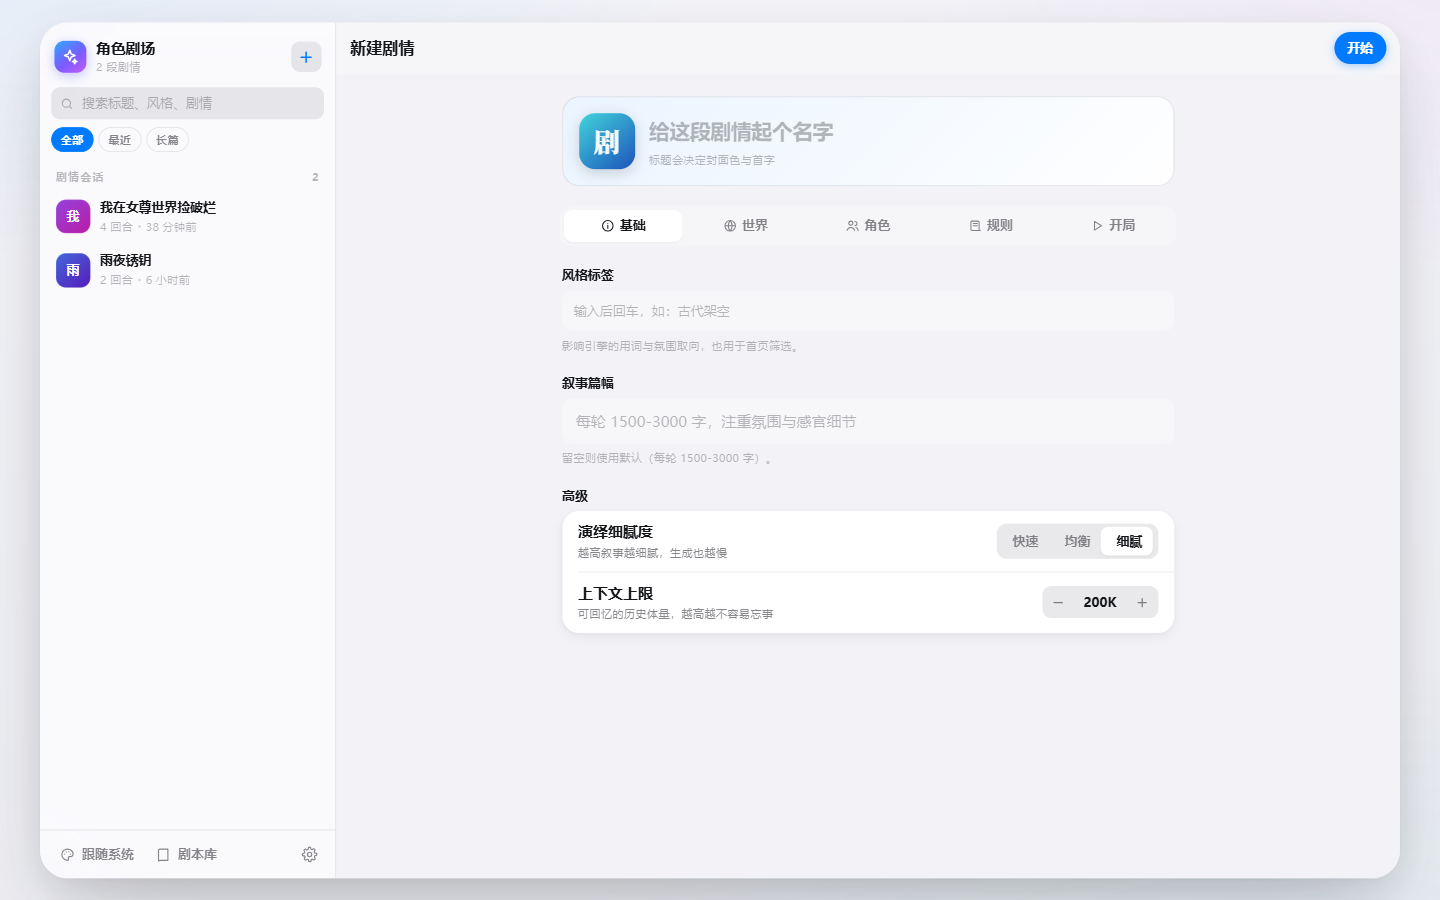
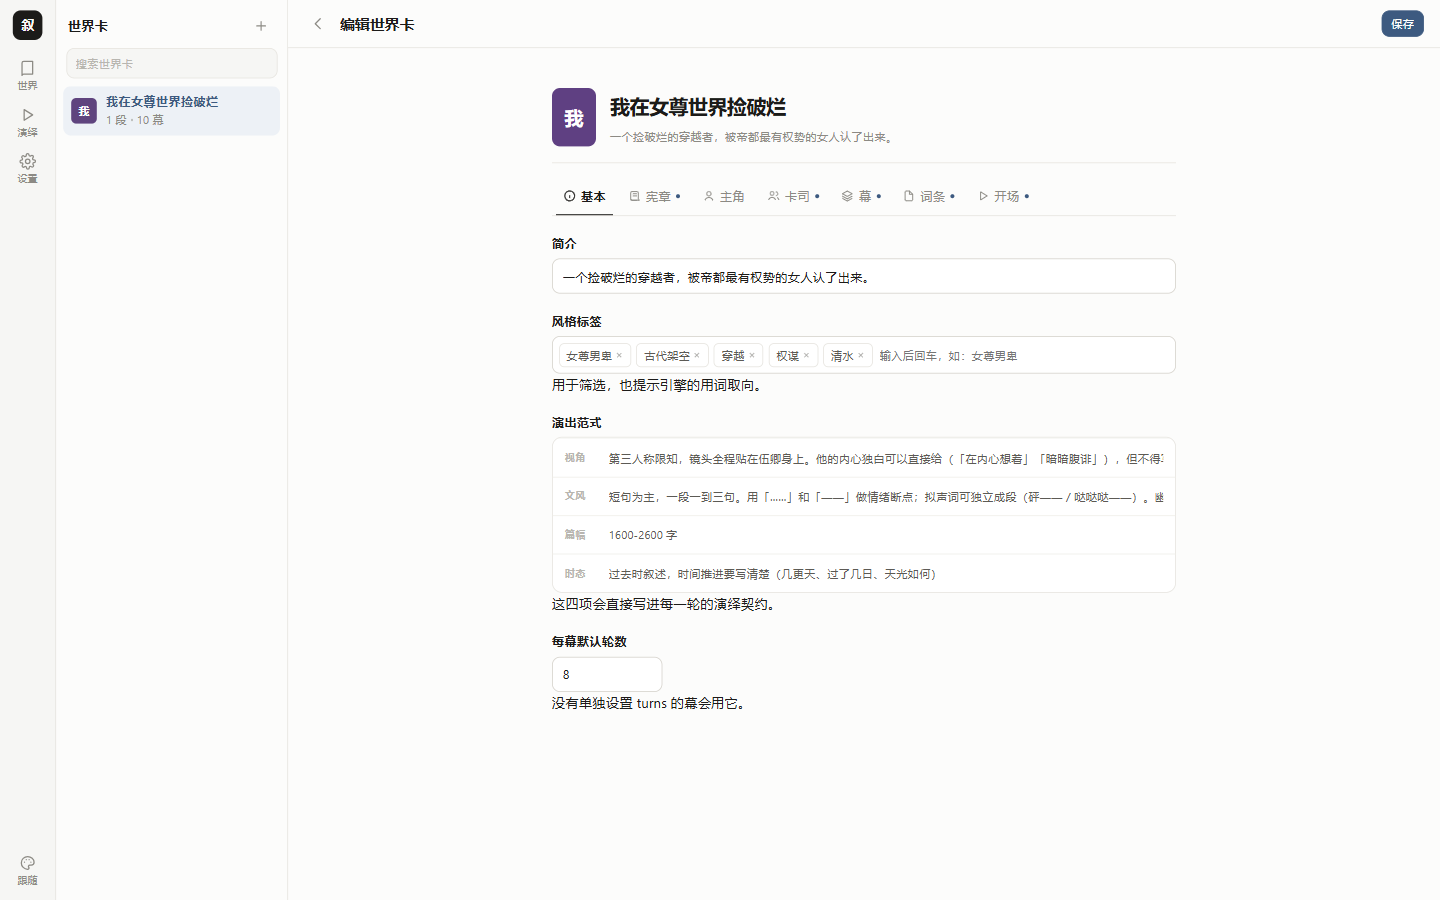
docs: 替换为 v3 界面截图

diff --git a/README.md b/README.md
@@ -34,6 +34,26 @@ node _work/seed-worlds.mjs --reset   # 清空旧数据后导入
 
 ---
 
+## 界面
+
+| 世界卡 | 世界卡 · 宪章 |
+|---|---|
+| ![世界卡](docs/screenshots/v3/worlds.png) | ![宪章](docs/screenshots/v3/world-charter.png) |
+
+| 卡司 | 幕结构 |
+|---|---|
+| ![卡司](docs/screenshots/v3/world-cast.png) | ![幕](docs/screenshots/v3/world-arcs.png) |
+
+| 演绎阅读器 | 走向 + 记忆面板 |
+|---|---|
+| ![演绎](docs/screenshots/v3/play.png) | ![走向](docs/screenshots/v3/play-branches.png) |
+
+| 世界卡编辑器 |
+|---|
+| ![编辑](docs/screenshots/v3/editor.png) |
+
+---
+
 ## 它解决什么问题
 
 写长剧情的 AI 应用通常死在同一个地方：**设定与记忆无节制地堆进提示词**。
